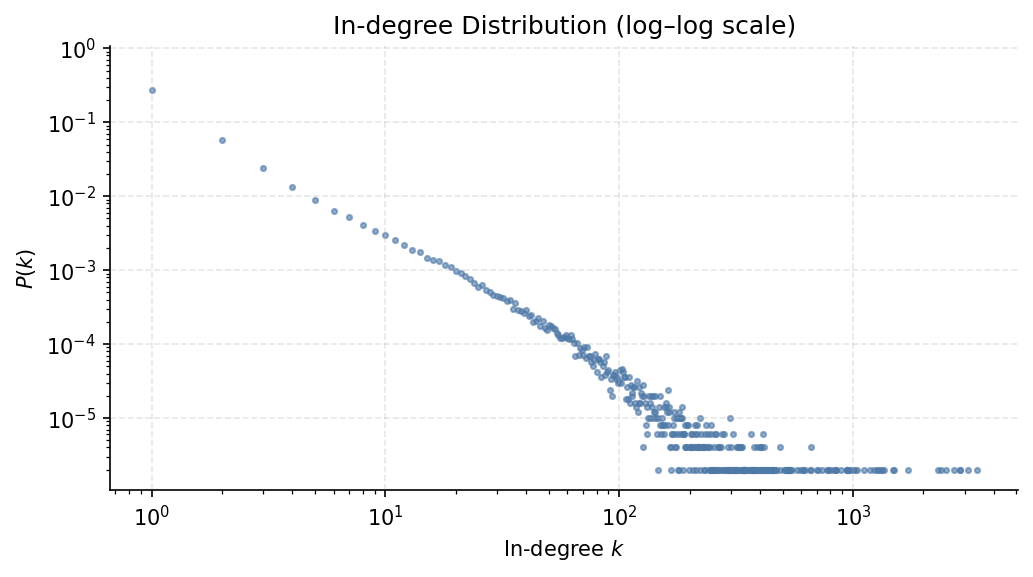
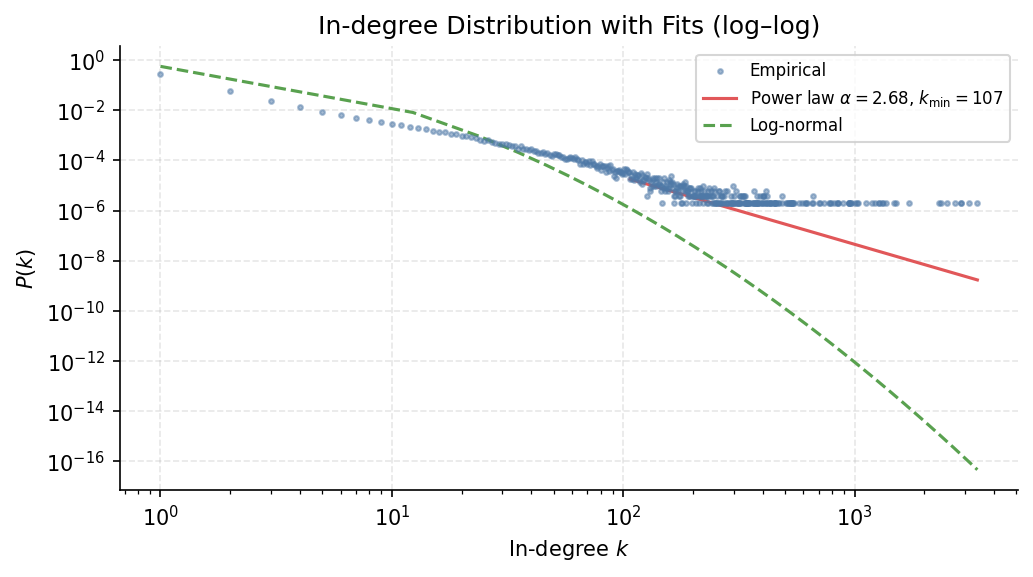
add compute_null and fit_degree_dist

diff --git a/fit_degree_distribution.py b/fit_degree_distribution.py
@@ -1,0 +1,101 @@
+"""
+Fits a power-law tail to the in-degree distribution using the
+maximum-likelihood estimator of Clauset, Shalizi & Newman (2009).
+
+Also fits a log-normal for comparison.
+Saves degree_distribution.png (with fit lines) to results/figures/.
+
+"""
+
+import pickle
+import numpy as np
+import matplotlib
+matplotlib.use("Agg")
+import matplotlib.pyplot as plt
+import seaborn as sns
+from pathlib import Path
+from scipy.stats import kstest
+
+state = pickle.load(open("results/.cache/build_state.pkl", "rb"))
+g_dir = state["g_dir"]
+indeg = np.array(g_dir.indegree())
+
+
+# Scan k_min candidates and pick the one minimising the KS statistic
+def mle_alpha(data, k_min):
+    tail = data[data >= k_min]
+    n    = len(tail)
+    if n < 10:
+        return None
+    alpha = 1 + n / np.sum(np.log(tail / (k_min - 0.5)))
+    return alpha
+
+def ks_stat(data, k_min, alpha):
+    tail  = data[data >= k_min]
+    n     = len(tail)
+    ks    = np.sort(tail)
+    # empirical CDF
+    emp   = np.arange(1, n + 1) / n
+    # theoretical CDF: P(K <= k) = 1 - (k/k_min)^(1-alpha)
+    theo  = 1 - (ks / k_min) ** (1 - alpha)
+    return np.max(np.abs(emp - theo))
+
+candidates = np.arange(2, 200)
+results    = []
+for k in candidates:
+    a = mle_alpha(indeg, k)
+    if a is not None and a > 1:
+        ks = ks_stat(indeg, k, a)
+        results.append((ks, k, a))
+
+results.sort()
+best_ks, k_min, alpha = results[0]
+
+print(f"Power-law fit:")
+print(f"  k_min = {k_min}")
+print(f"  alpha = {alpha:.4f}")
+print(f"  KS    = {best_ks:.4f}")
+print(f"  Tail  = {(indeg >= k_min).sum():,} nodes ({100*(indeg>=k_min).mean():.1f}% of all nodes)")
+
+# ── Log-normal fit ─────────────────────────────────────────────────────────────
+from scipy.stats import lognorm
+pos = indeg[indeg > 0]
+mu_ln, sigma_ln = np.log(pos).mean(), np.log(pos).std()
+print(f"\nLog-normal fit (k > 0):")
+print(f"  mu_log = {mu_ln:.3f}, sigma_log = {sigma_ln:.3f}")
+
+# ── Plot ───────────────────────────────────────────────────────────────────────
+Path("results/figures").mkdir(parents=True, exist_ok=True)
+
+counts  = np.bincount(indeg)
+ks_vals = np.where(counts > 0)[0]
+ps_vals = counts[ks_vals] / counts[ks_vals].sum()
+
+fig, ax = plt.subplots(figsize=(7, 4))
+ax.scatter(ks_vals, ps_vals, s=5, alpha=0.5, color="#4e79a7", label="Empirical", zorder=3)
+
+# power-law line
+k_range = np.linspace(k_min, ks_vals.max(), 300)
+C = (alpha - 1) / k_min                    # normalisation constant
+pl_y = C * (k_range / k_min) ** (-alpha)
+ax.plot(k_range, pl_y / pl_y[0] * ps_vals[ks_vals >= k_min][0],
+        color="#e15759", linewidth=1.5,
+        label=rf"Power law $\alpha={alpha:.2f}$, $k_{{\min}}={k_min}$")
+
+# log-normal line
+from scipy.stats import lognorm as ln_dist
+x_ln = np.linspace(1, ks_vals.max(), 300)
+pdf  = ln_dist.pdf(x_ln, s=sigma_ln, scale=np.exp(mu_ln))
+ax.plot(x_ln, pdf / pdf.max() * ps_vals.max(),
+        color="#59a14f", linewidth=1.5, linestyle="--", label="Log-normal")
+
+ax.set_xscale("log"); ax.set_yscale("log")
+ax.set_xlabel("In-degree $k$"); ax.set_ylabel("$P(k)$")
+ax.set_title("In-degree Distribution with Fits (log–log)")
+ax.legend(fontsize=8); ax.grid(linestyle="--", alpha=0.3)
+sns.despine()
+fig.tight_layout()
+fig.savefig("results/figures/degree_distribution.png", dpi=150, bbox_inches="tight")
+plt.close(fig)
+print("\nSaved updated degree_distribution.png with fit lines.")
+

diff --git a/compute_null_model.py b/compute_null_model.py
@@ -1,0 +1,43 @@
+"""
+Computes null-model modularity to validate community structure.
+
+For each of N_REWIRE rewired graphs (degree-preserving double-edge swaps),
+runs Louvain and records modularity. Reports mean +/- std and Z-score vs
+the empirical Q = 0.746.
+"""
+
+import pickle, time
+import numpy as np
+import igraph as ig
+
+N_REWIRE  = 5      # number of null-model graphs (increase for tighter CI)
+N_SWAPS   = 10     # multiplier: n_swaps = N_SWAPS * edge_count
+
+state  = pickle.load(open("results/.cache/build_state.pkl", "rb"))
+g_und  = state["g_und"]
+Q_emp  = 0.7464    # empirical modularity from your run
+
+print(f"Graph: {g_und.vcount():,} nodes, {g_und.ecount():,} edges")
+print(f"Empirical Q = {Q_emp:.4f}")
+print(f"Running {N_REWIRE} null-model rewirings ...\n")
+
+q_null = []
+for i in range(N_REWIRE):
+    t0  = time.time()
+    g_r = g_und.copy()
+    g_r.rewire(n=N_SWAPS * g_r.ecount())          # degree-preserving rewiring
+    part = g_r.community_multilevel(return_levels=False)
+    q    = part.modularity
+    q_null.append(q)
+    print(f"  Run {i+1}/{N_REWIRE}: Q_null = {q:.4f}  ({time.time()-t0:.0f}s)")
+
+q_null = np.array(q_null)
+mean_q = q_null.mean()
+std_q  = q_null.std()
+z      = (Q_emp - mean_q) / std_q if std_q > 0 else float("inf")
+
+print(f"\n=== Results ===")
+print(f"Null-model Q: {mean_q:.4f} ± {std_q:.4f}  (n={N_REWIRE})")
+print(f"Empirical Q:  {Q_emp:.4f}")
+print(f"Z-score:      {z:.1f}")
+